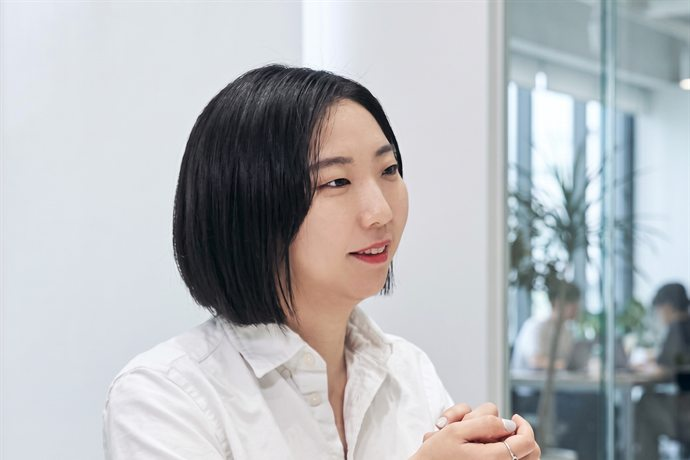
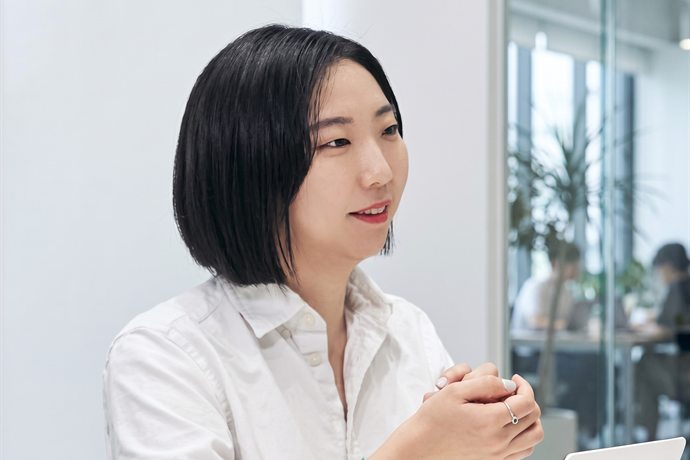
Re-import: refresh the MUSINSA speaker portrait
The artifact replaced the 김모을 speaker-card photo with a new encoding
of the same shot (690x460), so ASSET_NAMES now maps the new hash to the
same filename and the card keeps a stable URL.

Claude-Session: https://claude.ai/code/session_01SChCWEoLB8VTT8diAXE1zq

diff --git a/tools/import_artifact.py b/tools/import_artifact.py
@@ -51,7 +51,7 @@ ASSET_NAMES = {
     "d1ce8b64": "img/speaker-kim-kiyoung.jpg",
     "41791790": "img/speaker-lee-gyuwon.jpg",
     "625313ab": "img/speaker-kim-seongjin.jpg",
-    "de227ba5": "img/speaker-kim-moeul.jpg",
+    "95c9726f": "img/speaker-kim-moeul.jpg",
     "ec459dd8": "img/speaker-onishi-kiyotaka.png",
     # timetable thumbnails
     "c9f59c53": "img/timetable-kim-kiyoung.jpg",
